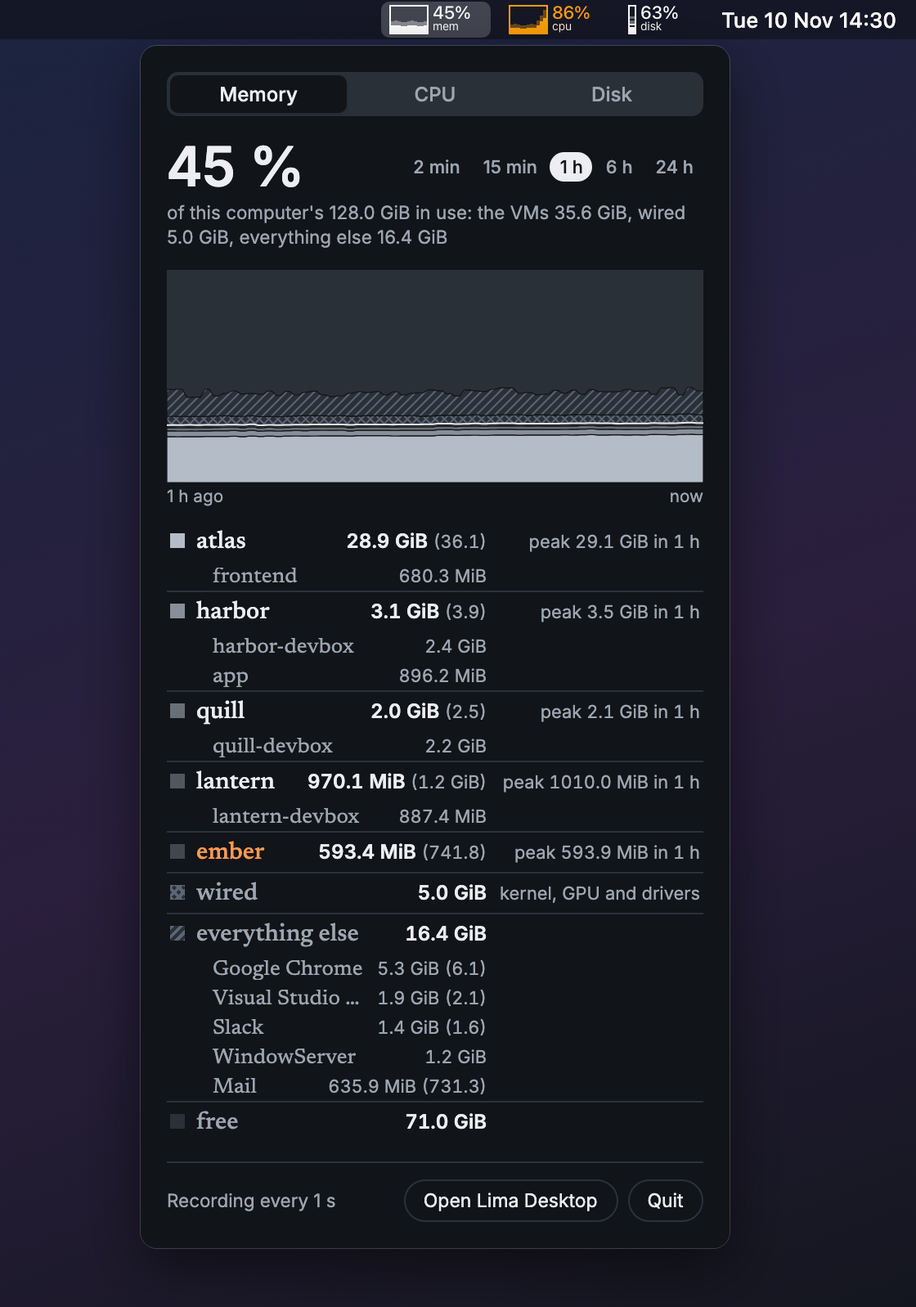
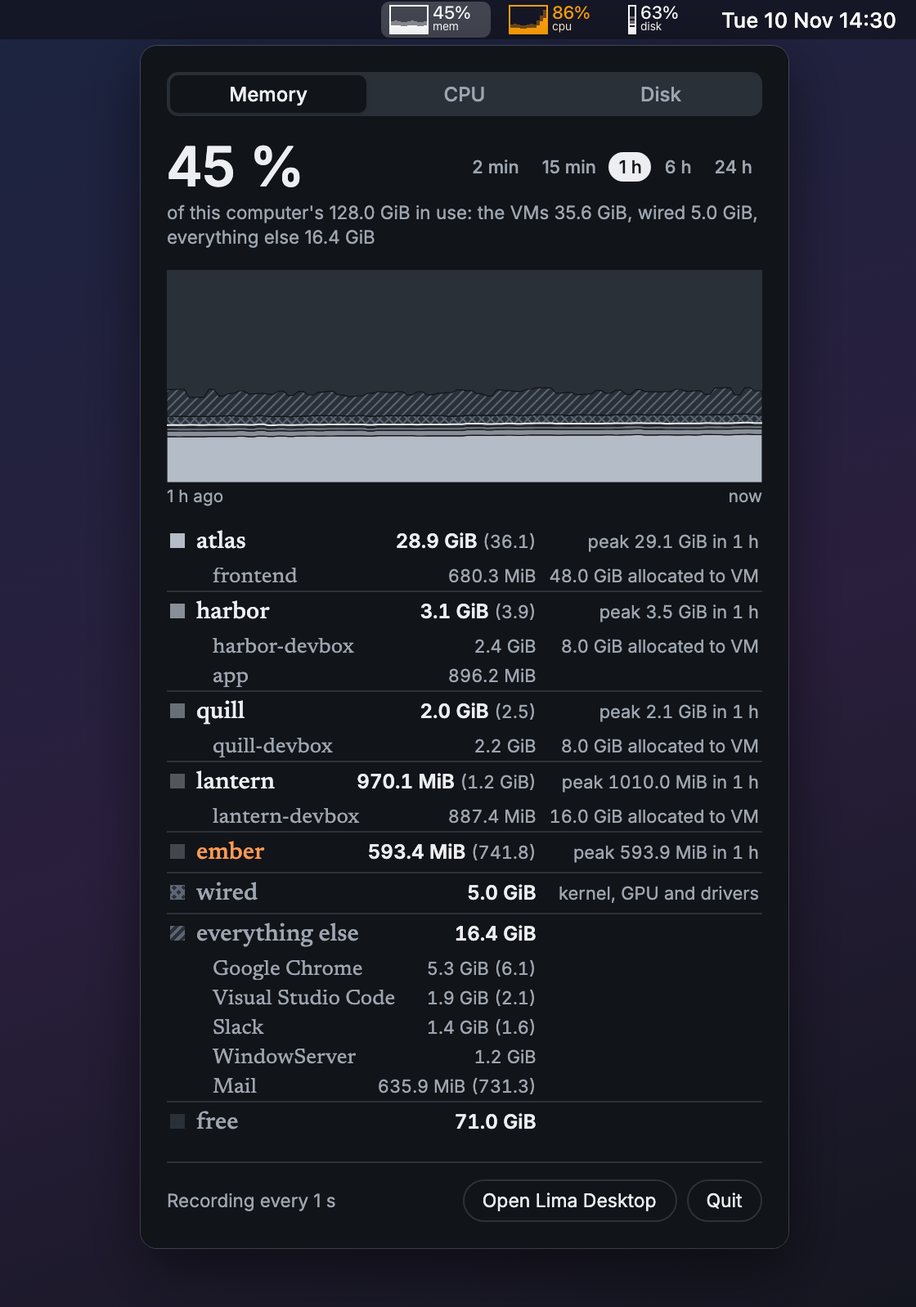
Menu bar popover: a busy VM's allocation under its peak (#12)
* Menu bar popover: a busy VM's allocation under its peak

On the memory and CPU tabs, a VM with containers listed under it says,
under its peak in the last column, what it's allocated ("8.0 GiB
allocated", "4 cores allocated"), on the line its first container leaves
spare there, so the popover is no taller. A VM with none listed is usually
idle, and stays one line. Its tooltip names the VM, as the line is a
container's. From the snapshot's instance, so nothing more is fetched.

"Allocated", not "max": a VM's cost on the computer can pass it by the
VMM's own share (a peak of 4.2 cores on 4).

* Menu bar popover: the allocation says it's the VM's ("8.0 GiB allocated to VM")

* Menu bar popover: 10 % wider (396 points), so names keep their room beside the allocation

* README: the menu bar popover redrawn at its new width, with the allocation lines

* Menu bar: a warning item highlighted is drawn as for the other menu bar, its names black and its orange the deeper one on a dark bar

macOS inverts a template image while its item is highlighted (pressed, or its menu open), but shows
any other as it is: a warning item kept its bright orange and white names on the light highlight.
It now gives its button an alternate image, drawn as for the other menu bar, which the cell shows
while it highlights its contents (a status button's cell highlights nothing by default).

---------

diff --git a/src/lib/menubar.ts b/src/lib/menubar.ts
@@ -1,7 +1,7 @@
 // The menu bar's popover (routes/menubar): the whole computer's memory, CPU or disk, the VMs' own
 // share of it and everything else, now and stacked over a range. What it says and the geometry it
 // draws are here, so a component only places them (docs/design/ui.md).
-import type { Snapshot, Stack, StackMetric, TopApp, TopApps, Warn } from './api';
+import type { Instance, Snapshot, Stack, StackMetric, TopApp, TopApps, Warn } from './api';
 import { lineName } from './containers';
 import { bytes, decimalBytes } from './format';
 import { inRange, rangeLabel, rangeMs, theLast, type AnyRangeKey } from './ranges';
@@ -32,7 +32,7 @@ export const parseTabRange = (tab: Tab, saved: string | null | undefined): AnyRa
   TAB_RANGES[tab].find((k) => k === saved) ?? DEFAULT_RANGE[tab];
 /** Under the chart's left end: "1 h ago". */
 export const agoLabel = (k: AnyRangeKey) => `${rangeLabel(k)} ago`;
-/** How many buckets the chart asks for: about one per 3 px of a 360 px popover. */
+/** How many buckets the chart asks for: about one per 3 px of the 396 px popover. */
 export const STACK_POINTS = 120;
 
 /**
@@ -83,6 +83,8 @@ export interface VmPart {
   running: boolean;
   /** It has stopped answering (`VmLive.stalledSince`). */
   stalled: boolean;
+  /** What it's allocated, in the tab's unit: its memory, its cores (in millicores), its disk. */
+  allocated: number | null;
 }
 
 /** The whole computer's use of one resource now, split into the VMs and everything else. */
@@ -131,6 +133,7 @@ export function shares(snap: Snapshot | null | undefined, tab: Tab, warn?: Warn 
       reported: k.reported && v.latest[k.vm] != null && v.latest[k.reported] != null ? Math.max(0, v.latest[k.reported]) : null,
       running: v.instance.status === 'Running',
       stalled: v.stalledSince != null,
+      allocated: allocation(tab, v.instance),
     }))
     .sort(largestFirst);
   const sum = parts.reduce((s, p) => s + (p.now ?? 0), 0);
@@ -154,6 +157,9 @@ export function warns(tab: Tab, pct: number, free: number, warn: Warn | null | u
   if (at == null) return false;
   return tab === 'disk' ? free < at * 1e9 : pct > at;
 }
+
+/** A VM's allocation in the tab's unit. */
+const allocation = (tab: Tab, i: Instance) => (tab === 'mem' ? i.memory : tab === 'cpu' ? i.cpus * 1000 : i.disk);
 
 const largestFirst = (a: { now: number | null; name: string }, b: { now: number | null; name: string }) =>
   (b.now ?? -1) - (a.now ?? -1) || a.name.localeCompare(b.name);
@@ -200,6 +206,8 @@ export interface Layer {
   reported: number | null;
   running: boolean;
   stalled: boolean;
+  /** What it's allocated, in the tab's unit; null for one only the range still holds. */
+  allocated: number | null;
   /** On the stack's buckets; null without a stack. */
   values: (number | null)[] | null;
   /** The most it reached in the range, as the backend says. */
@@ -223,7 +231,7 @@ export function layers(s: Shares | null, stack: Stack | null | undefined, tab: T
     return { ...p, values: h?.avg ?? null, peak: h?.peak ?? null, constant: false };
   });
   for (const h of history.values()) {
-    out.push({ name: h.name, now: null, reported: null, running: false, stalled: false, values: h.avg, peak: h.peak, constant: false });
+    out.push({ name: h.name, now: null, reported: null, running: false, stalled: false, allocated: null, values: h.avg, peak: h.peak, constant: false });
   }
   for (const l of out) {
     if (!stack) continue;
@@ -288,6 +296,20 @@ export function layerAside(tab: Tab, l: Layer, over: AnyRangeKey): string {
   const p = l.peak ?? (l.values ?? []).reduce<number | null>((m, v) => (v != null && (m == null || v > m) ? v : m), null);
   return p == null ? '' : `peak ${amount(tab, p)} ${inRange(over)}`;
 }
+
+/**
+ * Under a memory or CPU row's peak, what the VM is allocated ("8.0 GiB allocated to VM", "4 cores
+ * allocated to VM"), but only where `listed` containers under it leave that line spare: a VM with none is
+ * usually idle, and stays one line.
+ */
+export function allocatedAside(tab: Tab, l: Layer, listed: number): string {
+  if (!listsTop(tab) || listed === 0 || l.allocated == null) return '';
+  return `${whole(tab, l.allocated)} allocated to VM`;
+}
+
+/** The allocation, pointed at: whose it is, as the line it's on is a container's. */
+export const allocatedTip = (tab: 'mem' | 'cpu', l: Layer) =>
+  `${l.name} is allocated ${whole(tab, l.allocated ?? 0)}${tab === 'mem' ? ' of memory' : ''}`;
 
 /** The stacked chart's shapes: path data in a `width` × `height` box. */
 export interface StackChart {

diff --git a/src/lib/menubar.test.ts b/src/lib/menubar.test.ts
@@ -1,7 +1,7 @@
 import { describe, expect, it } from 'vitest';
 import type { Snapshot, Stack, VmLive, Warn } from './api';
 import {
-  agoLabel, amount, appTip, APPS_PENDING, chartLabel, containersByVm, containerTip, layerAside, layerFigure, layers, listsTop, ofSentence,
+  agoLabel, allocatedAside, allocatedTip, amount, appTip, APPS_PENDING, chartLabel, containersByVm, containerTip, layerAside, layerFigure, layers, listsTop, ofSentence,
   parseTab, parseTabRange, percentFigure, pickTop, recordingPhrase, reportedFigure, reportedTip, shares, stackChart, stackRefreshMs, TAB_RANGES, topApps,
   topContainers, WIRED, type Layer,
 } from './menubar';
@@ -202,7 +202,16 @@ describe('layers', () => {
     });
     const ls = layers(shares(fleet, 'mem'), stack, 'mem');
     expect(ls.map((l) => l.name)).toEqual(['atlas', 'harbor', 'gone']);
-    expect(ls[2]).toMatchObject({ now: null, running: false, peak: 3 * GiB });
+    expect(ls[2]).toMatchObject({ now: null, running: false, peak: 3 * GiB, allocated: null });
+  });
+  it("carries each VM's allocation in the tab's unit: memory in bytes, CPU in millicores, a disk in bytes", () => {
+    const sized = snap(
+      [{ ...vm({ name: 'harbor', cpus: 4, memory: 8 * GiB, disk: 60 * GiB }), latest: { host_rss: 6 * GiB, host_cpu_mc: 900, host_disk_alloc: 20 * GB } }],
+      host,
+    );
+    expect(layers(shares(sized, 'mem'), null, 'mem')[0].allocated).toBe(8 * GiB);
+    expect(layers(shares(sized, 'cpu'), null, 'cpu')[0].allocated).toBe(4000);
+    expect(layers(shares(sized, 'disk'), null, 'disk')[0].allocated).toBe(60 * GiB);
   });
   it('draws a stopped VM with no history at its size now, and holds a disk through its gaps', () => {
     const stack = stackOf({
@@ -230,7 +239,8 @@ describe('layers', () => {
 
 describe("the legend's figures", () => {
   const layer = (o: Partial<Layer>): Layer => ({
-    name: 'a', now: 10 * GiB, reported: null, running: true, stalled: false, values: [8 * GiB, 9 * GiB], peak: 16.6 * GiB, constant: false, ...o,
+    name: 'a', now: 10 * GiB, reported: null, running: true, stalled: false, allocated: 16 * GiB, values: [8 * GiB, 9 * GiB], peak: 16.6 * GiB,
+    constant: false, ...o,
   });
   it('gives the peak in the range for memory and CPU', () => {
     expect(layerAside('mem', layer({}), '1h')).toBe('peak 16.6 GiB in 1 h');
@@ -244,6 +254,20 @@ describe("the legend's figures", () => {
     expect(layerAside('disk', layer({ values: [10 * GB, 10 * GB] }), '1h')).toBe('unchanged in 1 h');
     expect(layerAside('disk', layer({ running: false, constant: true }), '7d')).toBe('not running');
   });
+  it("says what a VM is allocated, under its peak, only where containers listed under it leave a line spare", () => {
+    expect(allocatedAside('mem', layer({}), 1)).toBe('16.0 GiB allocated to VM');
+    expect(allocatedAside('cpu', layer({ allocated: 8000 }), 2)).toBe('8 cores allocated to VM');
+    // A VM with nothing listed under it stays one line.
+    expect(allocatedAside('mem', layer({}), 0)).toBe('');
+    expect(allocatedAside('cpu', layer({ allocated: 8000 }), 0)).toBe('');
+    // A disk lists no containers; nor does a VM the range only still holds, which has no size now.
+    expect(allocatedAside('disk', layer({ allocated: 100 * GB }), 1)).toBe('');
+    expect(allocatedAside('mem', layer({ allocated: null }), 1)).toBe('');
+  });
+  it('says whose allocation it is, pointed at', () => {
+    expect(allocatedTip('mem', layer({ name: 'harbor', allocated: 8 * GiB }))).toBe('harbor is allocated 8.0 GiB of memory');
+    expect(allocatedTip('cpu', layer({ name: 'harbor', allocated: 4000 }))).toBe('harbor is allocated 4 cores');
+  });
   it("says a VM without a reading now isn't running", () => {
     expect(layerFigure('mem', layer({ now: null }))).toBe('not running');
     expect(layerFigure('cpu', layer({ now: 2400 }))).toBe('2.4 cores');
@@ -254,7 +278,7 @@ describe("the legend's figures", () => {
 describe('stackChart', () => {
   const at = { from: 0, to: 200, width: 100, height: 100 };
   const layer = (name: string, values: (number | null)[]): Layer => ({
-    name, now: 1, reported: null, running: true, stalled: false, values, peak: null, constant: false,
+    name, now: 1, reported: null, running: true, stalled: false, allocated: null, values, peak: null, constant: false,
   });
 
   it('stacks the VMs from the bottom, everything else above, each bucket held across itself', () => {

diff --git a/src/routes/menubar/+page.svelte b/src/routes/menubar/+page.svelte
@@ -12,7 +12,7 @@
   import { api, type Snapshot, type Stack, type Theme, type TopApps, type Warn } from '$lib/api';
   import { inOrder } from '$lib/inOrder';
   import {
-    agoLabel, amount, appTip, APPS_PENDING, chartLabel, containersByVm, containerTip, layerAside, layerFigure, layers, listsTop, ofSentence,
+    agoLabel, allocatedAside, allocatedTip, amount, appTip, APPS_PENDING, chartLabel, containersByVm, containerTip, layerAside, layerFigure, layers, listsTop, ofSentence,
     parseTab, parseTabRange, percentFigure, rangeLabel, recordingPhrase, reportedFigure, reportedTip, shares, stackChart, stackRefreshMs, stalledTip, topApps,
     topContainers, SHADES, STACK_POINTS, TAB_RANGES, TABS, TOP_N, WIRED, type Tab,
   } from '$lib/menubar';
@@ -253,13 +253,16 @@
           <span class="aside num">{current ? layerAside(tab, l, range) : ''}</span>
         </li>
         {#if listsTop(tab)}
-          {#each containersUnder.get(l.name) ?? [] as c (c.id)}
+          {@const under = containersUnder.get(l.name) ?? []}
+          {#each under as c, j (c.id)}
+            <!-- The VM's allocation, under its peak, on the line its first container leaves spare. -->
+            {@const allocated = j === 0 ? allocatedAside(tab, l, under.length) : ''}
             <!-- svelte-ignore a11y_no_noninteractive_element_interactions -->
             <li class="row sub" class:hl={lit === vmLit(l.name)} data-container={c.name} data-in={l.name} title={containerTip(tab, c)}
               onmouseenter={() => (lit = vmLit(l.name))} onmouseleave={() => (lit = null)}>
               <span></span>
               <span class="part"><span class="name serif">{c.name}</span><span class="fig num">{amount(tab, c.now)}</span></span>
-              <span class="aside"></span>
+              <span class="aside num" data-allocated={allocated ? l.name : undefined} title={allocated ? allocatedTip(tab, l) : undefined}>{allocated}</span>
             </li>
           {/each}
         {/if}

diff --git a/src-tauri/src/menubar.rs b/src-tauri/src/menubar.rs
@@ -6,7 +6,8 @@
 //!
 //! On macOS each item is one image, its figure and name set in it beside the drawing (`typeset`),
 //! a template image that macOS tints for a light or dark menu bar; one that warns is drawn in the
-//! warning colour instead. When each warns is set in Settings: memory and CPU past a percent in use
+//! warning colour instead (and, as macOS can't invert it while it's highlighted, again for that, as
+//! for the other menu bar). When each warns is set in Settings: memory and CPU past a percent in use
 //! (three quarters unless chosen otherwise), the disk with less than so many GB free. Elsewhere the
 //! image is the drawing alone and the figure its title.
 
@@ -25,7 +26,7 @@ use crate::settings::{Drawing, Item, MenuBar, Saved, Warn};
 
 /// The popover window's label, and its width in points.
 pub const POPOVER: &str = "popover";
-const POPOVER_WIDTH: f64 = 360.0;
+const POPOVER_WIDTH: f64 = 396.0;
 const APP_ITEM: &str = "app";
 
 /// One of the computer's resources, as an item in the menu bar.
@@ -242,6 +243,15 @@ impl Bar {
         match self {
             Bar::Dark => HOT,
             Bar::Light => HOT_ON_LIGHT,
+        }
+    }
+
+    /// The menu bar as an item it highlights shows it: inverted (a light highlight on a dark bar).
+    #[cfg(target_os = "macos")]
+    fn inverted(self) -> Bar {
+        match self {
+            Bar::Dark => Bar::Light,
+            Bar::Light => Bar::Dark,
         }
     }
 }
@@ -705,6 +715,9 @@ fn tick(app: &AppHandle) {
 pub struct Shown {
     pub icon: Option<Icon>,
     pub template: bool,
+    /// The image while the item is highlighted (pressed, or its menu open), for when macOS can't
+    /// invert it as it does a template image: a warning item's, drawn as for the other menu bar.
+    pub highlighted: Option<Icon>,
     pub title: Option<String>,
     pub tooltip: Option<String>,
 }
@@ -723,7 +736,12 @@ pub fn shown(res: Res, p: Parts, history: &[Share], hot: bool, bar: Bar) -> Show
         drawing(p.drawing, history, hot).or_else(|| Some(glyph())),
         p.figure.then(|| title(res, now, p.name_under)),
     );
-    Shown { icon, template: ink(hot).1, title, tooltip: now.map(|s| tooltip(res, s)) }
+    // Highlighted, macOS inverts a template image itself; one that warns is drawn again, inverted.
+    #[cfg(target_os = "macos")]
+    let highlighted = hot.then(|| item(res, p, history, hot, bar.inverted()));
+    #[cfg(not(target_os = "macos"))]
+    let highlighted = None;
+    Shown { icon, template: ink(hot).1, highlighted, title, tooltip: now.map(|s| tooltip(res, s)) }
 }
 
 /// Redraws every item, changing only what has changed. Never on the main thread: each change
@@ -756,6 +774,9 @@ fn draw(app: &AppHandle) {
             if (&new.icon, new.template) != (&old.icon, old.template) {
                 let image = new.icon.clone().map(|i| Image::new_owned(i.rgba, i.width, i.height));
                 tray.set_icon_with_as_template(image, new.template)?;
+            }
+            if new.highlighted != old.highlighted {
+                set_highlighted(&tray, new.highlighted.as_ref())?;
             }
             if new.title != old.title {
                 tray.set_title(new.title.as_deref())?;
@@ -791,6 +812,49 @@ fn appearance(tray: &tauri::tray::TrayIcon) -> Bar {
 #[cfg(not(target_os = "macos"))]
 fn appearance(_: &tauri::tray::TrayIcon) -> Bar {
     Bar::default()
+}
+
+/// The image `tray` shows while it's highlighted (pressed, or its menu open): `icon`, else its own,
+/// as macOS shows it then (a template image inverted, any other as it is). It's the button's
+/// alternate image, at the size Tauri gives its image (18 points tall), which its cell shows only
+/// while it highlights its contents: on a status item, by default, it highlights nothing itself.
+#[cfg(target_os = "macos")]
+fn set_highlighted(tray: &tauri::tray::TrayIcon, icon: Option<&Icon>) -> tauri::Result<()> {
+    use objc2::AllocAnyThread;
+    use objc2_app_kit::{NSButtonCell, NSCellStyleMask, NSImage};
+    use objc2_foundation::{NSData, NSSize};
+    let png = match icon {
+        Some(i) => {
+            let mut png = Vec::new();
+            let mut e = png::Encoder::new(&mut png, i.width, i.height);
+            e.set_color(png::ColorType::Rgba);
+            e.set_depth(png::BitDepth::Eight);
+            e.write_header().and_then(|mut w| w.write_image_data(&i.rgba)).map_err(std::io::Error::from)?;
+            Some((png, NSSize::new(f64::from(i.width) * 18.0 / f64::from(i.height), 18.0)))
+        }
+        None => None,
+    };
+    tray.with_inner_tray_icon(move |t| {
+        let mtm = objc2::MainThreadMarker::new()?;
+        let button = t.ns_status_item()?.button(mtm)?;
+        let image = png.and_then(|(png, size)| {
+            let image = NSImage::initWithData(NSImage::alloc(), &NSData::from_vec(png))?;
+            image.setSize(size);
+            Some(image)
+        });
+        button.setAlternateImage(image.as_deref());
+        let cell = button.cell()?.downcast::<NSButtonCell>().ok()?;
+        let mut by = cell.highlightsBy();
+        by.set(NSCellStyleMask::ContentsCellMask, image.is_some());
+        cell.setHighlightsBy(by);
+        Some(())
+    })?;
+    Ok(())
+}
+
+#[cfg(not(target_os = "macos"))]
+fn set_highlighted(_: &tauri::tray::TrayIcon, _: Option<&Icon>) -> tauri::Result<()> {
+    Ok(())
 }
 
 /// Shows the popover under the item clicked, on its tab; a second click on the same item hides it.
@@ -1427,6 +1491,25 @@ mod tests {
         }
     }
 
+    #[cfg(target_os = "macos")]
+    #[test]
+    fn highlighted_a_warning_item_is_drawn_as_for_the_other_menu_bar() {
+        let hot = [used(0.9, 0.2)];
+        let p = parts(item(Drawing::Trace, true), true).unwrap();
+        // macOS inverts an item it highlights: on a dark menu bar its names go black, and the
+        // warning colour the deeper one, to read on the light highlight; the other way round on a
+        // light one.
+        for (bar, own, warn) in [(Bar::Dark, INK, HOT_ON_LIGHT), (Bar::Light, WHITE, HOT)] {
+            let i = shown(Res::Mem, p, &hot, true, bar).highlighted.expect("an image while highlighted");
+            assert_eq!(&px(&i, 0, 0)[..3], &warn, "{bar:?}");
+            let fig = TRACE_WIDTH + FIGURE_GAP..i.width;
+            assert_eq!(colours_in(&i, fig.clone(), 0..18).iter().map(|c| c.0).collect::<Vec<_>>(), [warn], "{bar:?}");
+            assert_eq!(colours_in(&i, fig, 22..H).iter().map(|c| c.0).collect::<Vec<_>>(), [own], "{bar:?}");
+        }
+        // Not warning, it's a template image, which macOS inverts itself.
+        assert_eq!(shown(Res::Mem, p, &[used(0.4, 0.2)], false, Bar::Dark).highlighted, None);
+    }
+
     /// WCAG's contrast ratio between two colours.
     fn contrast(a: [u8; 3], b: [u8; 3]) -> f64 {
         let lum = |c: [u8; 3]| {
@@ -1535,6 +1618,13 @@ mod tests {
                 write(&format!("{}-{}-{tag}", res.id(), d_name(d)), &shown(res, p, &wave, false, Bar::Dark));
                 write(&format!("{}-{}-{tag}-hot", res.id(), d_name(d)), &shown(res, p, &hot, true, Bar::Dark));
                 write(&format!("{}-{}-{tag}-hot-light", res.id(), d_name(d)), &shown(res, p, &hot, true, Bar::Light));
+                // While highlighted (macOS only).
+                for (theme, bar) in [("dark", Bar::Dark), ("light", Bar::Light)] {
+                    if let Some(i) = shown(res, p, &hot, true, bar).highlighted {
+                        let s = Shown { icon: Some(i), ..Shown::default() };
+                        write(&format!("{}-{}-{tag}-hot-{theme}-highlighted", res.id(), d_name(d)), &s);
+                    }
+                }
             }
             let p = parts(item(Drawing::Off, true), true).unwrap();
             write(&format!("{}-figure-named", res.id()), &shown(res, p, &wave, false, Bar::Dark));

diff --git a/docs/development.md b/docs/development.md
@@ -50,7 +50,7 @@ prerequisites). macOS needs Xcode's command-line tools.
 | `stall.rs` | VM stalls: a VM Lima says is running whose probe has been silent for 45 s or ten intervals, whichever is longer, measured on `Instant` (`CLOCK_UPTIME_RAW` on macOS, `CLOCK_MONOTONIC` on Linux), which stops while the computer sleeps. Not counted: before a probe's first block, a restart for a new interval, the app's own stop or restart. It ends when blocks come again, at a boot the guest's uptime shows (dropped if the VM went down within the threshold, which makes it a reboot), or when Lima stops reporting it running. It keeps the last reading's memory, the highest memory pressure of the minute before, and the largest container |
 | `store.rs` | the history ([design](./design/metrics-storage.md)), the OOM kill log, and the stalls (written when one begins; one still open when the app starts again is closed as "unknown") |
 | `settings.rs` | what's chosen in Settings (the measuring interval: 1, 2, 5 or 10 s; the theme, which the windows take too; the menu bar's items, each a drawing (trace, bar or none), a figure (on or off) and when it warns (memory and CPU past 50 to 95 % in use, by default 75 %; the disk under 10 to 200 GB free, by default 50 GB; or never), and whether closing the window keeps the app recording), as `settings.json` beside the history |
-| `menubar.rs` | the menu bar: an item per resource (memory, CPU, disk), each the whole computer's use as a drawing (a trace of the last 11 measurements or a bar notched at quarters, the VMs solid and everything else pale), a figure (in the room "100%" takes, so items never shift), or both; its name small under the figure, or on its side beside a drawing alone. On macOS an item is one image, its text set in the system font by `typeset.rs` (CoreText): a template image, or when it warns (as Settings has it: memory and CPU past a percent in use, the disk with less than so many GB free) the drawing and figure in the warning colour (a deeper one on a light menu bar, to read as text) and the names in the menu bar's own (white or black, as its status button's appearance says). A tick changes only what has changed, and the image and its template flag in one call: `set_icon` then `set_icon_as_template` let macOS show the image untinted for a frame. Elsewhere the image is the drawing (the app's glyph without one: Linux shows no title alone) and the figure its title. With all three items off, the app's glyph: a serif L. A click shows the popover (`/menubar?tab=…`, a borderless window built on the first click, then hidden when it loses the focus and shown again under the item clicked (on that item's screen, found by the pointer, kept whole there; placed in points, as macOS says each screen's pixels at its own scale and turns a window's position into points at the scale of the screen it's still on), told its tab by a `popover-shown` event, on which it reads Settings again for when it warns, in the theme's background so it never flashes white); the right-click menu opens the app or quits. Linux tells of no clicks on an item, so there its menu opens the popover too, at the top right of the screen. When the main window closes and Settings keeps the app running, it leaves the Dock (macOS) and the app keeps recording; otherwise it quits, though the popover's window, hidden, is still about; `open_main` makes the window again. On Linux an app indicator library is needed; without one, closing the window quits as before |
+| `menubar.rs` | the menu bar: an item per resource (memory, CPU, disk), each the whole computer's use as a drawing (a trace of the last 11 measurements or a bar notched at quarters, the VMs solid and everything else pale), a figure (in the room "100%" takes, so items never shift), or both; its name small under the figure, or on its side beside a drawing alone. On macOS an item is one image, its text set in the system font by `typeset.rs` (CoreText): a template image, or when it warns (as Settings has it: memory and CPU past a percent in use, the disk with less than so many GB free) the drawing and figure in the warning colour (a deeper one on a light menu bar, to read as text) and the names in the menu bar's own (white or black, as its status button's appearance says). Highlighted (pressed, or its menu open) macOS inverts a template image itself but shows any other as it is, so a warning item also gives its button an alternate image, drawn as for the other menu bar (on a dark one: the names black, the deeper warning colour), which its cell shows while it's highlighted. A tick changes only what has changed, and the image and its template flag in one call: `set_icon` then `set_icon_as_template` let macOS show the image untinted for a frame. Elsewhere the image is the drawing (the app's glyph without one: Linux shows no title alone) and the figure its title. With all three items off, the app's glyph: a serif L. A click shows the popover (`/menubar?tab=…`, a borderless window built on the first click, then hidden when it loses the focus and shown again under the item clicked (on that item's screen, found by the pointer, kept whole there; placed in points, as macOS says each screen's pixels at its own scale and turns a window's position into points at the scale of the screen it's still on), told its tab by a `popover-shown` event, on which it reads Settings again for when it warns, in the theme's background so it never flashes white); the right-click menu opens the app or quits. Linux tells of no clicks on an item, so there its menu opens the popover too, at the top right of the screen. When the main window closes and Settings keeps the app running, it leaves the Dock (macOS) and the app keeps recording; otherwise it quits, though the popover's window, hidden, is still about; `open_main` makes the window again. On Linux an app indicator library is needed; without one, closing the window quits as before |
 | `updates.rs` | whether a newer version is out: GitHub's latest release (`/repos/daaain/lima-desktop/releases/latest`, its `tag_name` and `html_url`), compared with the app's own version by semver. Asked 30 s after start if a check is due, then looked at every 15 min: due a day after GitHub last answered and an hour after the last try, so a failed one is tried again hourly and a restart doesn't ask twice in a day. What was found and when is kept as `updates.json` beside the settings. The request is `ureq` over rustls with only `User-Agent: lima-desktop/<version>`; a failure is logged and shows nothing. Off in Settings (`checkUpdates`), nothing is asked and `update_available` answers none. `cargo test latest_release_live -- --ignored` asks GitHub for real |
 | `commands.rs` | what the UI can call (`top_apps` is the popover's list of the busiest apps, sampled off the main thread; `host_stack` is the popover's chart: a resource's use and each VM's part, every VM on the computer's own buckets (each is measured at its own moment, with ssh's jitter, so buckets of its own would be wider and skip some); a bucket a VM ran in but has no reading for, up to two between two of its readings or after its newest, as each guest's come over ssh a moment after the computer's own, is a gap rather than that VM using nothing; a longer while without one, it was stopped) |
 

diff --git a/docs/design/ui.md b/docs/design/ui.md
@@ -225,7 +225,11 @@ under the sentence, figures and bar it explains, with the allocation as a dashed
   outermost bundle, so Chrome's helpers are one "Google Chrome"; anything else by its name; the
   tooltip says how many processes); a container's tooltip names it in full, and one whose figure
   would round to nothing ("0.0 cores") isn't listed. These rows are a name and a figure in the tab's format, smaller,
-  in `--muted` and not bold, with no rule between them and their row. Every row's name runs on
+  in `--muted` and not bold, with no rule between them and their row. A VM with containers listed
+  under it is busy and has that line to spare, so under its peak, in the first container's last
+  column, it says what the VM is allocated ("8.0 GiB allocated to VM", "4 cores allocated to VM"; its tooltip
+  names the VM, `menubar.allocatedAside`); a VM with none listed is usually idle, and stays one line.
+  It says "allocated", not "max": a VM's cost on the computer can pass it by the VMM's own share. Every row's name runs on
   into the figures' column as far as its own figure. They have no band of their own, and pointing at one
   lights its VM, or everything else. CPU needs two samples, so for the moment after the popover is
   shown the apps are "measuring the busiest apps…", never figures that look real. Pointing at a
